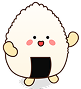
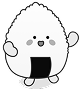
feat: 아이콘 추가 및 기존 아이콘 스타일 수정, 데이터 없음 상태에 대한 이미지 업데이트

diff --git a/src/components/Icon/lib/index.ts b/src/components/Icon/lib/index.ts
@@ -20,6 +20,8 @@ export { default as company } from './company.svg?react';
 export { default as compass } from './compass.svg?react';
 export { default as copy } from './copy.svg?react';
 export { default as delete } from './delete.svg?react';
+export { default as deleteIcon } from './deleteIcon.svg?react';
+export { default as edit } from './edit.svg?react';
 export { default as googleLogin } from './googleLogin.svg?react';
 export { default as help } from './help.svg?react';
 export { default as homeTab } from './homeTab.svg?react';
